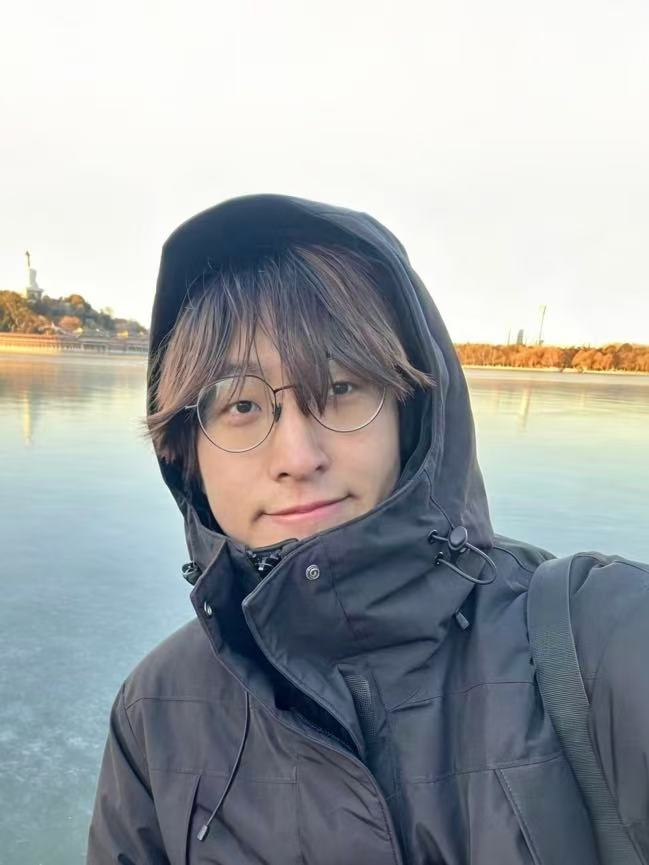
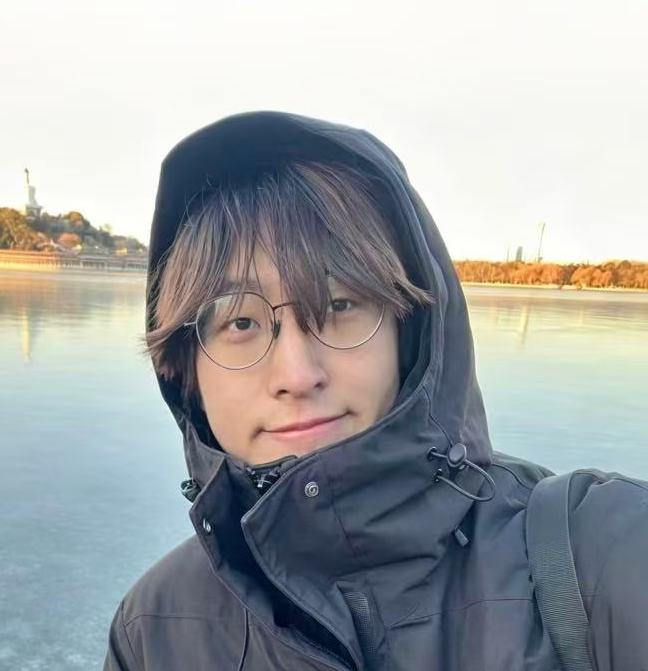
change ui

diff --git a/index.html b/index.html
@@ -35,7 +35,6 @@
         <a href="#projects">Projects</a>
         <a href="#publications">Publications</a>
         <a href="#friends-links">Links</a>
-        <a href="./blog/">Blog</a>
         <a href="./daily-life.html">Daily Life</a>
       </div>
     </div>
@@ -46,7 +45,7 @@
       <div class="profile-card">
         <a class="image avatar"><img src="assets/img/avatar.jpg" alt="avatar" onerror="this.src='assets/img/avatar.png'" /></a>
         <h1 class="site-name">Boyuan Wang</h1>
-        <p class="site-email"> Learning Machine, Slowly </p>
+        <p class="site-email"><a href="https://chatgpt.com/g/g-69b8e5fac8bc8191a7bd78e195232449-learning-machine" target="_blank" rel="noopener noreferrer">Learning Machine</a>, Slowly </p>
 
         <div class="social-icons">
           <a href="mailto:bypurnine@outlook.com" title="Email"><i class="fa-solid fa-envelope"></i></a>
@@ -69,7 +68,7 @@
             Before my Ph.D., I worked as a research assistant with <a href="https://www.tengjiaye.com/" target="_blank" rel="noopener noreferrer">Prof. Jiaye Teng</a>, who introduced me to this field and shaped much of my early research taste.
           </p>
           <p>
-          I enjoy doing research for its own sake 🍶. 
+          I enjoy doing research for its own sake. 
           </p>
           <p>
             Recently, I have been thinking about what I call <em>wide research</em>. I am less interested in staying within a fixed path than the distant echoes between ideas. A problem becomes alive when it leaves its original domain and returns in a more fundamental form. AI, to me, makes this freedom of movement possible.
@@ -87,15 +86,11 @@
 
               <li>
                 <div class="pub-row">
-                  <video
+                  <img
                     class="entry-image"
-                    autoplay
-                    muted
-                    loop
-                    playsinline
-                  >
-                    <source src="assets/img/paper/harness.mp4" type="video/mp4" />
-                  </video>
+                    src="assets/img/paper/harness.png"
+                    alt="Harnesses for Inference-Time Alignment over Execution Trajectories"
+                  />
 
                   <div class="pub-content">
                     <div class="title">
@@ -160,10 +155,8 @@
           <article class="card project-card">
             <img src="assets/img/project/zoomies.png" alt="Auto-Slides preview" class="entry-image" onerror="this.src='assets/img/avatar.jpg'" />
             <div class="entry-content">
-              <div>
-                <a href="https://chromewebstore.google.com/detail/zoomies-ai-generation-mon/jekbjoplbllcogkiledgbkjgallkonmp" style="font-weight: 600">Zoomies: AI Generation Monitor</a>
-                <a href="https://chromewebstore.google.com/detail/zoomies-ai-generation-mon/jekbjoplbllcogkiledgbkjgallkonmp" target="_blank" style="text-decoration: none; margin-left: 8px;">
-                </a>
+              <div class="project-title">
+                Zoomies: AI Generation Monitor
               </div>
               <p>Zoomies is a Chrome extension that lets you know when AI websites are still generating or have finished.</p>
             </div>
@@ -171,10 +164,8 @@
           <article class="card project-card">
             <img src="assets/img/project/autostat.png" alt="Auto-Slides preview" class="entry-image" onerror="this.src='assets/img/avatar.jpg'" />
             <div class="entry-content">
-              <div>
-                <a href="https://autostat.cc/" style="font-weight: 600">AutoSTAT</a>
-                <a href="https://autostat.cc/" target="_blank" style="text-decoration: none; margin-left: 8px;">
-                </a>
+              <div class="project-title">
+                AutoSTAT
               </div>
               <p>AutoSTAT is a user-friendly agent framework for end-to-end data analysis and interactive optimization.</p>
             </div>

diff --git a/assets/css/theme-claude.css b/assets/css/theme-claude.css
@@ -193,7 +193,7 @@ body.theme-claude .social-icons a {
   align-items: center;
   justify-content: center;
   border-radius: var(--radius-pill);
-  border: 1px solid var(--colors-hairline);
+  border: 0;
   color: var(--colors-ink);
   background: var(--colors-canvas);
 }
@@ -232,7 +232,7 @@ body.theme-claude .section {
 body.theme-claude .section-title {
   margin: 0 0 18px;
   font-family: var(--font-display);
-  font-size: 40px;
+  font-size: 33px;
   font-weight: 600;
   line-height: 1.1;
   letter-spacing: -0.28px;
@@ -251,14 +251,14 @@ body.theme-claude .section-body p {
 
 body.theme-claude .opportunity-note {
   background: var(--colors-canvas);
-  border: 1px solid var(--colors-hairline);
+  border: 0;
   border-radius: var(--radius-lg);
   padding: 16px;
 }
 
 body.theme-claude .card {
   background: var(--colors-canvas);
-  border: 1px solid var(--colors-hairline);
+  border: 0;
   border-radius: var(--radius-lg);
   padding: var(--spacing-lg);
   margin-bottom: 12px;
@@ -296,7 +296,13 @@ body.theme-claude .pub-row {
   display: grid;
   grid-template-columns: 220px minmax(0, 1fr);
   gap: 20px;
-  align-items: start;
+  align-items: center;
+}
+
+body.theme-claude .project-card,
+body.theme-claude .publications ol.bibliography li {
+  background: rgba(255, 255, 255, 0.9);
+  box-shadow: 0 10px 30px rgba(0, 0, 0, 0.05);
 }
 
 body.theme-claude .entry-image {
@@ -305,13 +311,31 @@ body.theme-claude .entry-image {
   aspect-ratio: 220 / 138;
   object-fit: cover;
   border-radius: 10px;
-  border: 1px solid #e5e5e5;
-  background: #f5f5f5;
+  border: 1px solid rgba(29, 29, 31, 0.08);
+  background: #ffffff;
   display: block;
 }
 
+body.theme-claude .entry-content {
+  min-width: 0;
+}
+
+body.theme-claude .project-title {
+  margin-bottom: 10px;
+  font-size: 18px;
+  font-weight: 600;
+  line-height: 1.3;
+}
+
+body.theme-claude .project-title a {
+  color: var(--colors-ink);
+}
+
 body.theme-claude .entry-content p {
-  margin: 10px 0 0;
+  margin: 0;
+  font-size: 15px;
+  line-height: 1.4;
+  color: var(--colors-body-muted);
 }
 
 body.theme-claude .exp-detail,
@@ -471,7 +495,7 @@ body.theme-claude .publications ol.bibliography {
 body.theme-claude .publications ol.bibliography li,
 body.theme-claude .award-item,
 body.theme-claude .blog-card {
-  border: 1px solid var(--colors-hairline);
+  border: 0;
   border-radius: var(--radius-lg);
   padding: var(--spacing-lg);
   margin-bottom: 12px;
@@ -497,7 +521,7 @@ body.theme-claude .friend-card {
   grid-template-columns: 56px minmax(0, 1fr);
   gap: 12px;
   align-items: center;
-  border: 1px solid var(--colors-hairline);
+  border: 0;
   border-radius: var(--radius-lg);
   padding: var(--spacing-lg);
   background: var(--colors-canvas);

diff --git a/daily-life.html b/daily-life.html
@@ -27,7 +27,6 @@
         <a href="./index.html#projects">Projects</a>
         <a href="./index.html#publications">Publications</a>
         <a href="./index.html#friends-links">Links</a>
-        <a href="./blog/">Blog</a>
         <a href="./daily-life.html">Daily Life</a>
       </div>
     </div>
@@ -38,7 +37,7 @@
       <div class="profile-card">
         <a class="image avatar"><img src="assets/img/avatar.jpg" alt="avatar" onerror="this.src='assets/img/avatar.png'" /></a>
         <h1 class="site-name">Boyuan Wang</h1>
-        <p class="site-email"> Learning Machine, Slowly </p>
+        <p class="site-email"><a href="https://chatgpt.com/g/g-69b8e5fac8bc8191a7bd78e195232449-learning-machine" target="_blank" rel="noopener noreferrer">Learning Machine</a>, Slowly </p>
 
         <div class="social-icons">
           <a href="mailto:bypurnine@outlook.com" title="Email"><i class="fa-solid fa-envelope"></i></a>

diff --git a/blog/index.html b/blog/index.html
@@ -3,7 +3,9 @@
 <head>
   <meta charset="UTF-8" />
   <meta name="viewport" content="width=device-width, initial-scale=1.0" />
-  <title>Blog - Coming Soon</title>
+  <title>Blog - Temporarily Hidden</title>
+  <meta name="robots" content="noindex, nofollow" />
+  <meta http-equiv="refresh" content="0; url=../index.html" />
   <style>
     :root {
       --bg: #f5f5f7;
@@ -62,8 +64,8 @@
 </head>
 <body>
   <main class="card">
-    <h1>Coming Soon</h1>
-    <p>Blog 页面正在建设中，敬请期待。</p>
+    <h1>Temporarily Hidden</h1>
+    <p>Blog 页面暂时关闭，后续会重新开放。</p>
     <a href="../index.html">Back to Homepage</a>
   </main>
 </body>
